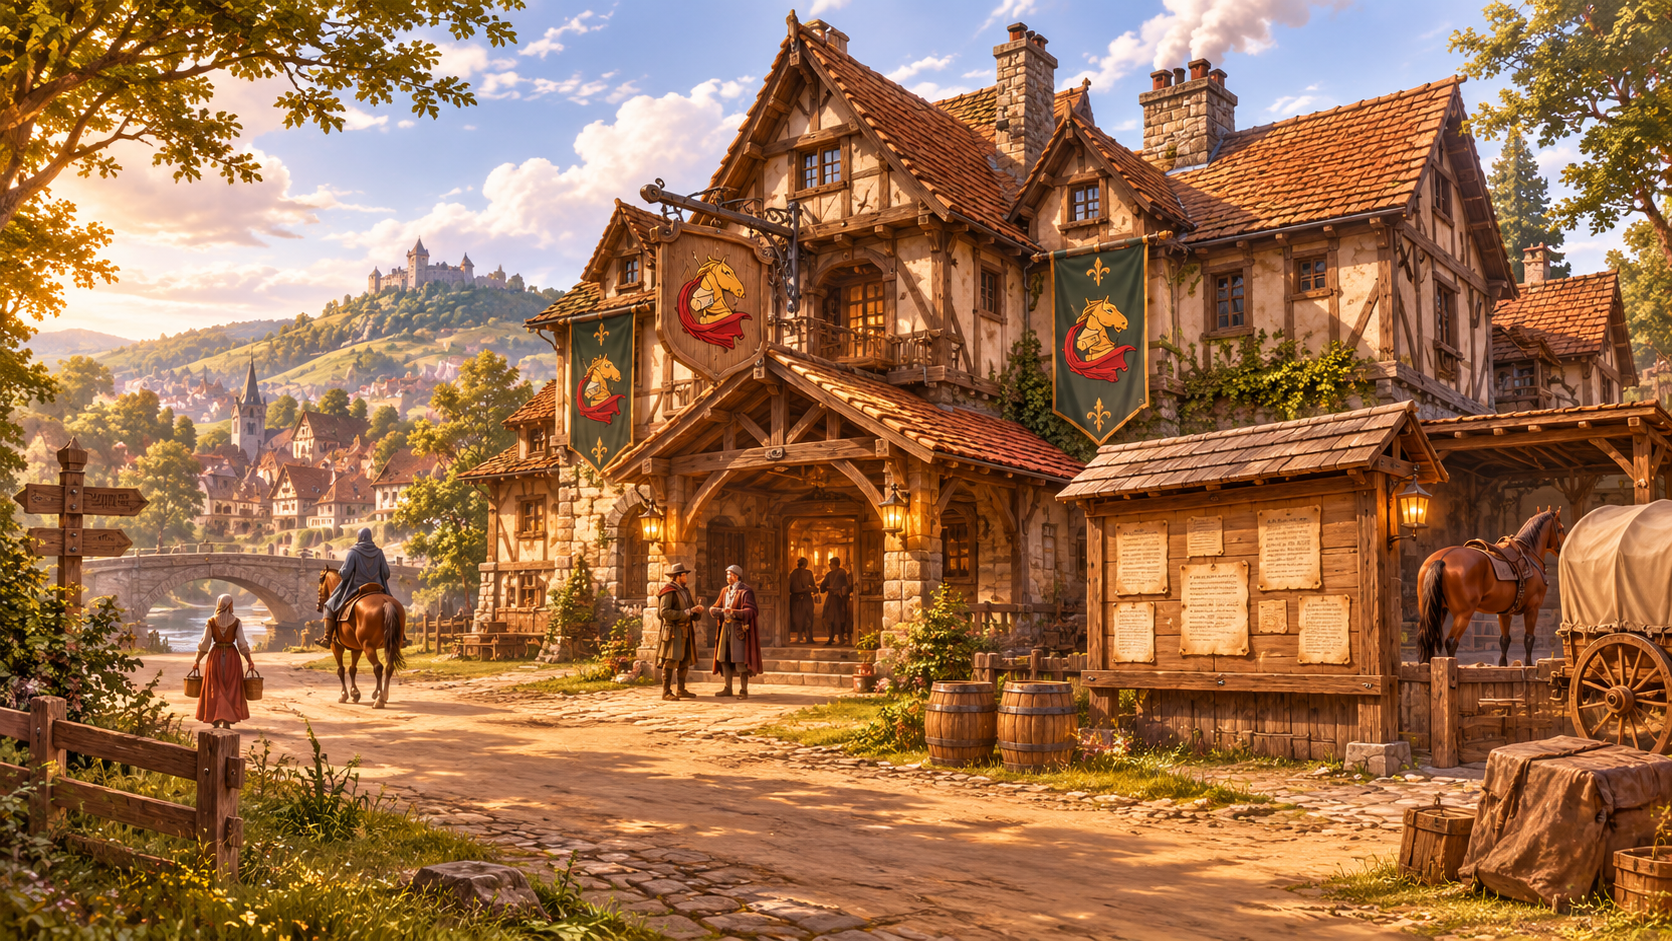
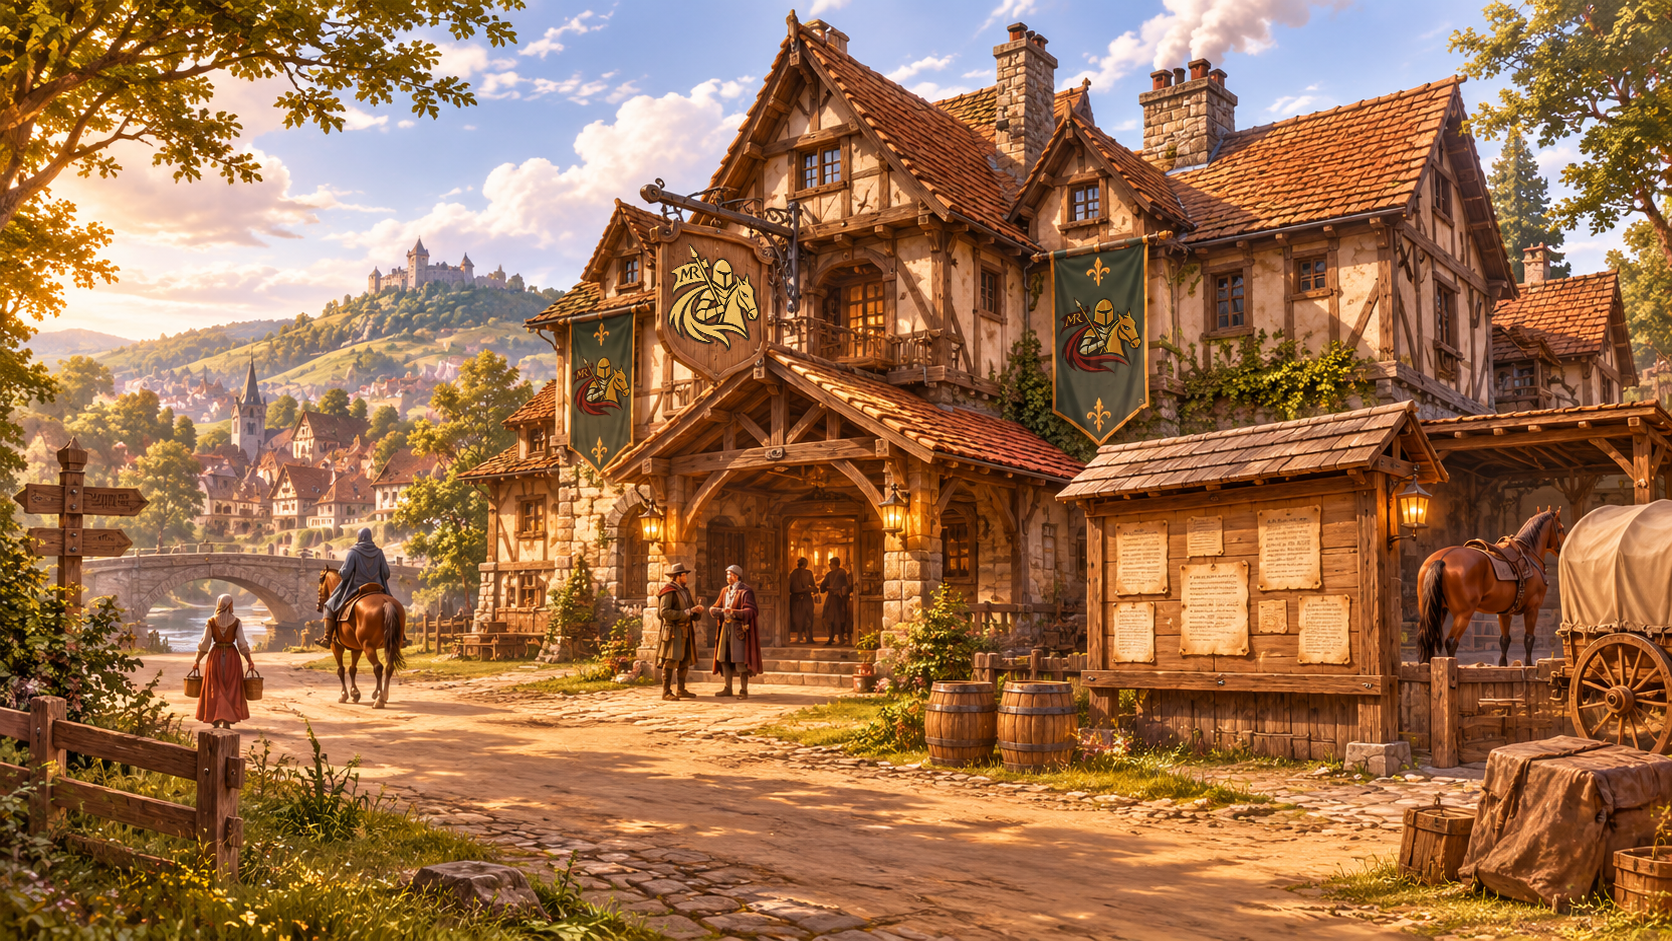
create home page

Changed region(s): [[0.4043, 0.2465, 0.4665, 0.3698], [0.622, 0.3082, 0.6842, 0.4006], [0.3421, 0.3698, 0.3732, 0.4623]]

diff --git a/templates/public_home.html b/templates/public_home.html
@@ -12,7 +12,7 @@
 
         <div class="public-scene-intro">
             <p class="eyebrow">Médiéval Relais</p>
-            <h1>Les routes du royaume ont leurs messagers.</h1>
+            <h1>Les routes sont longues, mais nos coursiers sont déjà en selle.</h1>
             <p>La faction veille sur les plis, les colis et les missions qui font vivre le royaume.</p>
         </div>
 
@@ -46,17 +46,24 @@
             <div class="public-board-actions">
                 <a class="public-board-link" href="/annonces">Voir toutes les annonces</a>
                 <button class="public-board-link public-board-publish" type="button"
-                    data-dialog-target="announcement-dialog" aria-haspopup="dialog"
-                    aria-controls="announcement-dialog">Publiez votre annonce</button>
+                    data-dialog-target="announcement-dialog" aria-haspopup="dialog" aria-controls="announcement-dialog">
+                    <img src="/static/images/LogoMR03.png" alt="" aria-hidden="true" width="32" height="32">
+                    Publiez votre annonce
+                </button>
             </div>
         </section>
 
         <nav class="public-scene-actions" aria-label="Découvrir la guilde">
             <a class="scene-door-link scene-door-link--discover" href="#guilde">Découvrir la Guilde</a>
-            <button class="scene-door-link scene-door-link--courier" type="button"
-                data-dialog-target="courier-dialog" aria-haspopup="dialog"
-                aria-controls="courier-dialog">Trouver un coursier</button>
-            <a class="scene-door-link scene-door-link--join" href="/login">Entrer dans la Guilde</a>
+            <button class="scene-door-link scene-door-link--courier" type="button" data-dialog-target="courier-dialog"
+                aria-haspopup="dialog" aria-controls="courier-dialog">
+                <img src="/static/images/LogoMR01.png" alt="" aria-hidden="true" width="36" height="36">
+                Trouver un coursier
+            </button>
+            <a class="scene-door-link scene-door-link--join" href="/login">
+                <img src="/static/images/LogoMR04.png" alt="" aria-hidden="true" width="32" height="36">
+                Entrer dans la Guilde
+            </a>
         </nav>
     </section>
 
@@ -89,7 +96,8 @@
     aria-labelledby="courier-dialog-title" aria-modal="true">
     <div class="request-dialog__content">
         <header class="request-dialog__header">
-            <span class="request-dialog__emblem" aria-hidden="true">✉</span>
+            <img class="request-dialog__emblem" src="/static/images/LogoMR02.png" alt="" aria-hidden="true" width="52"
+                height="52">
             <div>
                 <p class="eyebrow">Un pli à faire voyager ?</p>
                 <h2 id="courier-dialog-title">Besoin de faire transporter quelque chose ?</h2>
@@ -110,7 +118,8 @@
             <ul class="request-dialog__list">
                 <li><strong>Moyen de contact :</strong> votre messagerie Angémoniaque.</li>
                 <li><strong>Lieu de départ et destination :</strong> coordonnées précises X ; Y.</li>
-                <li><strong>Personnages concernés :</strong> nom du ou des personnages expéditeurs et destinataires.</li>
+                <li><strong>Personnages concernés :</strong> nom du ou des personnages expéditeurs et destinataires.
+                </li>
                 <li><strong>Nature du transport :</strong> type de pli ou de colis.</li>
                 <li><strong>Description :</strong> contenu, particularités et éventuelles contraintes de livraison.</li>
             </ul>
@@ -126,8 +135,7 @@
                         <p>Matricule : 121</p>
                     </div>
                 </div>
-                <a class="button-link request-contact__button"
-                    href="https://www.angemoniaque.com/event?personnage=121"
+                <a class="button-link request-contact__button" href="https://www.angemoniaque.com/event?personnage=121"
                     target="_blank" rel="noopener noreferrer">Contacter Ba en jeu</a>
             </aside>
         </div>
@@ -138,7 +146,8 @@
     aria-labelledby="announcement-dialog-title" aria-modal="true">
     <div class="request-dialog__content">
         <header class="request-dialog__header">
-            <span class="request-dialog__emblem" aria-hidden="true">✦</span>
+            <img class="request-dialog__emblem" src="/static/images/LogoMR05.png" alt="" aria-hidden="true" width="52"
+                height="52">
             <div>
                 <p class="eyebrow">Au tableau de la communauté</p>
                 <h2 id="announcement-dialog-title">Faites passer le message !</h2>
@@ -177,8 +186,7 @@
                         <p>Matricule : 121</p>
                     </div>
                 </div>
-                <a class="button-link request-contact__button"
-                    href="https://www.angemoniaque.com/event?personnage=121"
+                <a class="button-link request-contact__button" href="https://www.angemoniaque.com/event?personnage=121"
                     target="_blank" rel="noopener noreferrer">Contacter Ba en jeu</a>
             </aside>
         </div>

diff --git a/static/style.css b/static/style.css
@@ -1211,7 +1211,7 @@ body.map-canvas-page .route-grid-frame {
     margin: 0;
     color: var(--color-wood-deep);
     font-family: var(--font-display);
-    font-size: clamp(1.7rem, 3vw, 3rem);
+    font-size: clamp(2rem, 2vw, 2rem);
     line-height: 1.05;
 }
 
@@ -1340,6 +1340,7 @@ body.map-canvas-page .route-grid-frame {
 }
 
 .public-board-publish {
+    gap: 0.4rem;
     min-height: 36px;
     padding: 0.35rem 0.6rem;
     border: 1px solid rgba(243, 210, 143, 0.68);
@@ -1348,6 +1349,13 @@ body.map-canvas-page .route-grid-frame {
     color: #fff1d2;
     font: 700 0.86rem/1.2 var(--font-body);
     text-align: left;
+}
+
+.public-board-publish img {
+    width: 1.6rem;
+    height: 1.6rem;
+    flex: 0 0 auto;
+    object-fit: contain;
 }
 
 .public-board-publish:hover {
@@ -1409,6 +1417,19 @@ body.map-canvas-page .route-grid-frame {
     background: var(--color-green);
 }
 
+.scene-door-link img {
+    width: 1.8rem;
+    height: 1.8rem;
+    flex: 0 0 auto;
+    object-fit: contain;
+    filter: drop-shadow(0 1px 2px rgba(20, 14, 10, 0.35));
+}
+
+.scene-door-link--join img {
+    width: 1.55rem;
+    height: 1.8rem;
+}
+
 .request-dialog {
     width: min(42rem, calc(100vw - 1.5rem));
     max-width: 42rem;
@@ -1457,22 +1478,12 @@ body.map-canvas-page .route-grid-frame {
 }
 
 .request-dialog__emblem {
-    display: grid;
-    width: 3rem;
-    height: 3rem;
-    flex: 0 0 3rem;
-    place-items: center;
-    border: 2px solid rgba(233, 216, 181, 0.9);
-    border-radius: 50%;
-    background: var(--color-wood);
-    box-shadow: 0 0 0 2px var(--color-leather);
-    color: #fff1d2;
-    font-family: var(--font-display);
-    font-size: 1.35rem;
-}
-
-.request-dialog--courier .request-dialog__emblem {
-    background: var(--color-green);
+    display: block;
+    width: 3.35rem;
+    height: 3.35rem;
+    flex: 0 0 3.35rem;
+    object-fit: contain;
+    filter: drop-shadow(0 2px 3px rgba(48, 34, 27, 0.28));
 }
 
 .request-dialog__header .eyebrow {
@@ -1610,6 +1621,27 @@ body.map-canvas-page .route-grid-frame {
     box-shadow: var(--shadow-panel);
 }
 
+.public-announcements-heading {
+    display: flex;
+    align-items: center;
+    justify-content: space-between;
+    gap: 1rem;
+    margin-bottom: 0.75rem;
+}
+
+.public-announcements-heading .eyebrow,
+.public-announcements-heading h1 {
+    margin-block: 0;
+}
+
+.public-announcements-heading img {
+    width: 4.5rem;
+    height: 4.9rem;
+    flex: 0 0 auto;
+    object-fit: contain;
+    filter: drop-shadow(0 3px 4px rgba(48, 34, 27, 0.2));
+}
+
 .guild-introduction h2,
 .public-announcements h1 {
     margin-top: 0;
@@ -1744,10 +1776,9 @@ body.map-canvas-page .route-grid-frame {
     }
 
     .request-dialog__emblem {
-        width: 2.5rem;
-        height: 2.5rem;
-        flex-basis: 2.5rem;
-        font-size: 1.15rem;
+        width: 2.8rem;
+        height: 2.8rem;
+        flex-basis: 2.8rem;
     }
 
     .request-dialog__close {
@@ -1892,6 +1923,11 @@ body.map-canvas-page .route-grid-frame {
     .guild-introduction,
     .public-announcements {
         padding: 1.15rem;
+    }
+
+    .public-announcements-heading img {
+        width: 3.5rem;
+        height: 3.8rem;
     }
 
     .guild-features,

diff --git a/templates/public_announcements.html b/templates/public_announcements.html
@@ -6,8 +6,14 @@
 
 {% block content %}
 <section class="public-announcements" aria-labelledby="announcements-title">
-    <p class="eyebrow">Le tableau de la guilde</p>
-    <h1 id="announcements-title">Annonces ouvertes</h1>
+    <header class="public-announcements-heading">
+        <div>
+            <p class="eyebrow">Le tableau de la guilde</p>
+            <h1 id="announcements-title">Annonces ouvertes</h1>
+        </div>
+        <img src="/static/images/LogoMR04.png" alt="" aria-hidden="true"
+            width="72" height="78" decoding="async">
+    </header>
     <p>Les missions marquées publiques et ouvertes à de nouveaux coursiers.</p>
 
     {% if missions %}

diff --git a/templates/base.html b/templates/base.html
@@ -5,7 +5,7 @@
     <meta charset="UTF-8">
     <meta name="viewport" content="width=device-width, initial-scale=1.0">
     <title>{% block title %}Médiéval Relais{% endblock %}</title>
-    <link rel="stylesheet" href="/static/style.css?v=20261119-home-dialogs">
+    <link rel="stylesheet" href="/static/style.css?v=20261120-mr-logos">
 </head>
 
 <body class="{% block body_class %}{% endblock %}">
